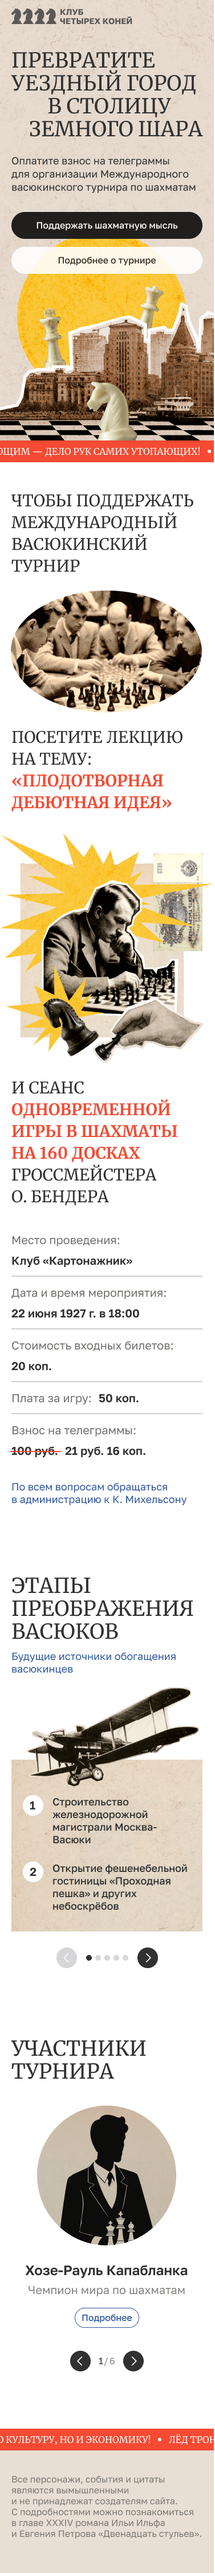
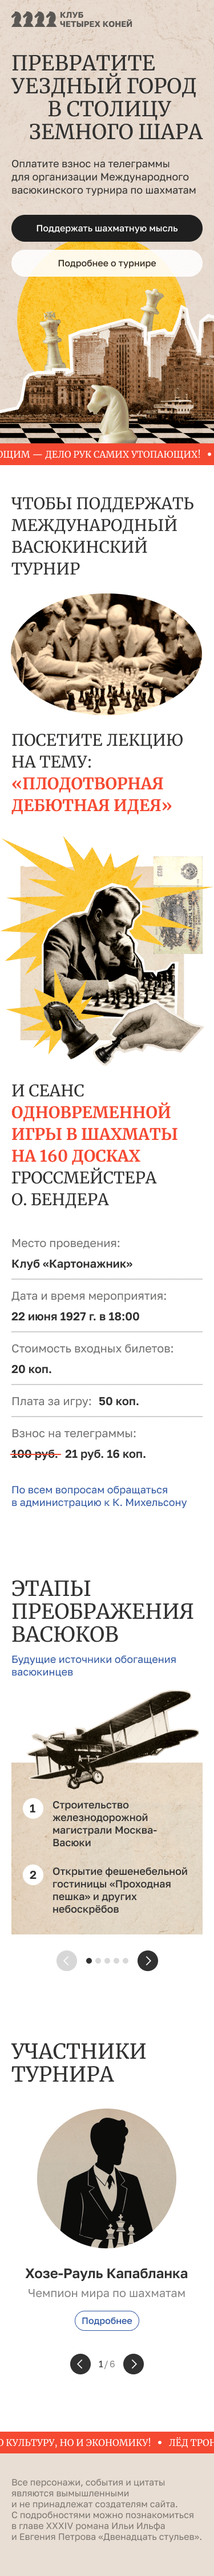
stages adaptive

diff --git a/assets/style/style.css b/assets/style/style.css
@@ -331,7 +331,7 @@
 .support-chess__img-top {
 	position: absolute;
 	top: -30px;
-	right: -4px;
+	right: -3px;
 }
 
 .support-chess__title {
@@ -400,7 +400,7 @@
 
 /* ABOUT */
 .about {
-	padding-top: 100px;
+	padding-top: 70px;
 	padding-bottom: 100px;
 }
 
@@ -413,20 +413,24 @@
 
 .about__title {
 	font-size: var(--title-M);
+	line-height: 117%;
 }
 
 .about__title_end {
-	margin-right: 12px;
+	margin-right: 19px;
 }
 
 .about__subtitle {
 	max-width: 280px;
+	padding-top: 6px;
 	color: var(--color-link);
 }
 
 .about__stages {}
 
-.stages {}
+.stages {
+	position: relative;
+}
 
 .stages__wrap {
 	position: relative;
@@ -459,10 +463,17 @@
 
 .stages-cart__item {
 	display: flex;
-	padding: 20px;
+	padding-top: 20px;
+	padding-bottom: 20px;
+	padding-left: 20px;
+	padding-right: 20px;
 	background-image: url(../img/about/bg.webp);
 	background-repeat: no-repeat;
 	background-size: cover;
+}
+
+.stages__card:nth-child(1) .stages-cart__item {
+	padding-bottom: 0;
 }
 
 .stages-cart__item_first {
@@ -475,7 +486,7 @@
 }
 
 .stages-cart__item_p-right {
-	padding-right: 290px;
+	padding-right: 326px;
 }
 
 .stages-cart__item_p-bottom {
@@ -526,15 +537,14 @@
 	margin-right: 6px;
 }
 
-
-
-
 .stages__decor-img {
-	display: none;
+	position: absolute;
+	right: -62px;
+	bottom: -3px;
 }
 
 /*  */
-@media (max-width: 1366px) {
+@media (max-width: 1384px) {
 	.wrap-top {
 		background-image: url(../img/hero/back-1366.webp);
 	}
@@ -625,7 +635,6 @@
 	:root {
 		--title-L: 36px;
 		--title-M: 36px;
-		--text-base: 18px;
 		--text-m: 18px;
 	}
 
@@ -639,7 +648,7 @@
 	}
 
 	.header {
-		padding-top: 10px;
+		padding-top: 15px;
 		padding-bottom: 14px;
 	}
 
@@ -682,11 +691,17 @@
 		display: flex;
 		flex-direction: row;
 		width: 335px;
-		padding: 10px 18px;
+		padding: 11px 18px;
 	}
 
 	.running-line {
 		height: 38px;
+	}
+
+	/* ABOUT */
+	.about {
+		padding-top: 83px;
+		/* padding-bottom: 100px; */
 	}
 
 	.support-chess {
@@ -775,6 +790,10 @@
 
 	.stages__wrap {
 		height: 300px;
+	}
+
+	.stages-cart__text {
+		font-size: var(--text-m);
 	}
 }
 
